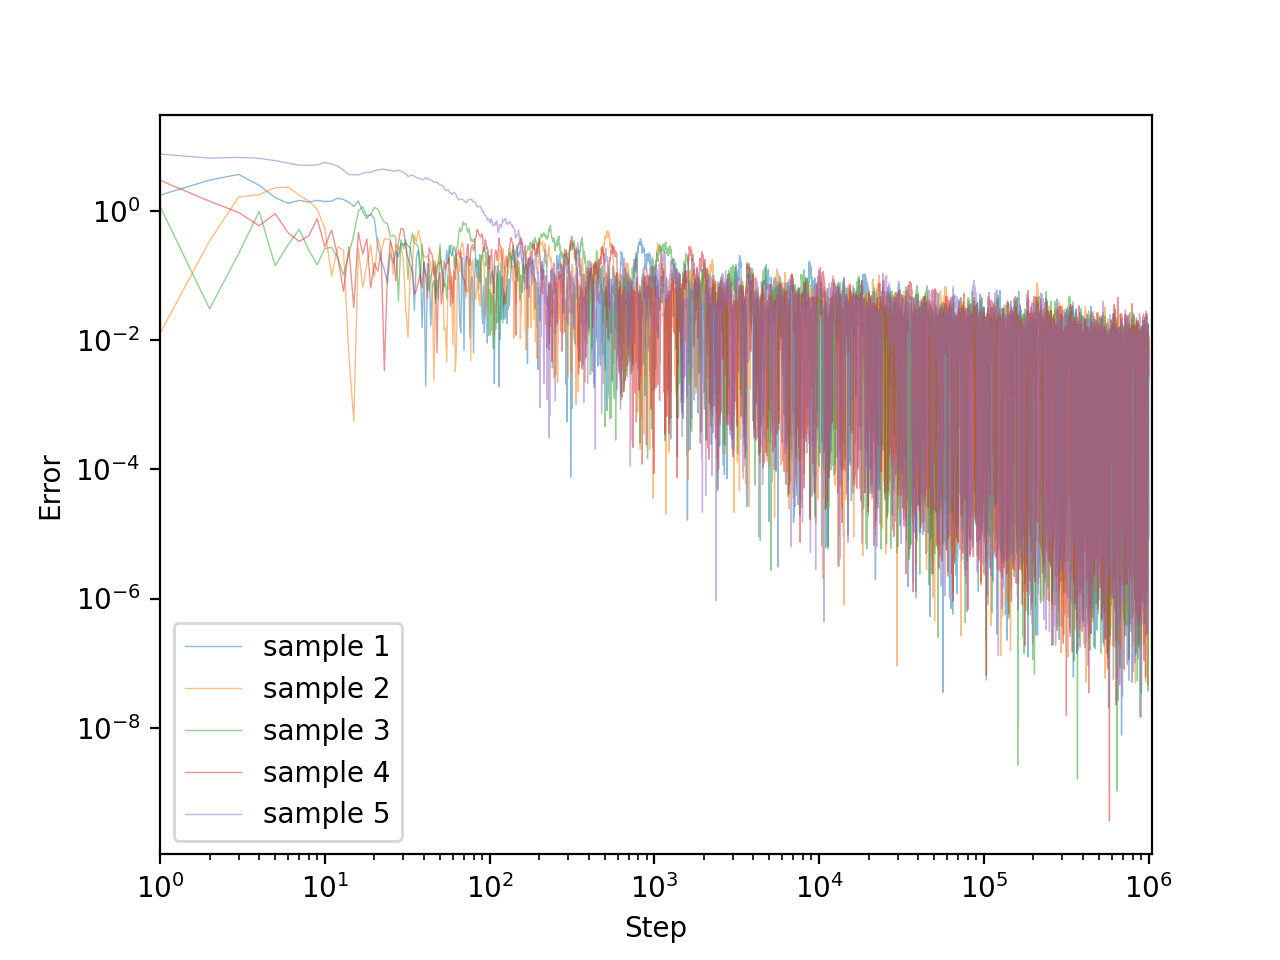
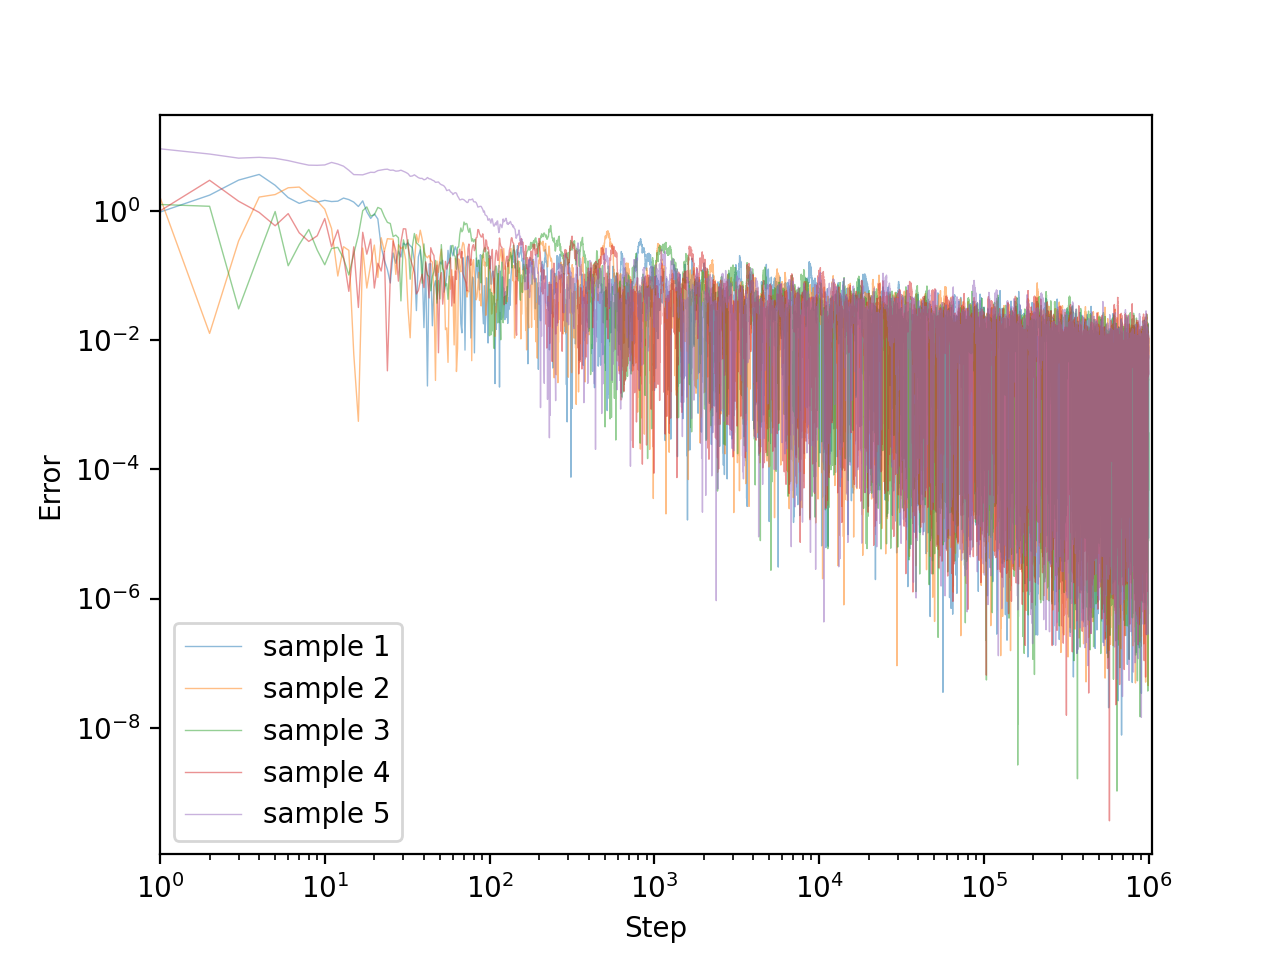
fix off-by-one error

Changed region(s): [[0.125, 0.1562, 0.4688, 0.4375]]

diff --git a/kiefer-wolfowitz/run.py b/kiefer-wolfowitz/run.py
@@ -82,7 +82,7 @@ def main() -> None:
     with output_path.open('w', encoding='utf-8') as file:
         writer = csv.DictWriter(file, fieldnames=['step', 'value', 'error'])
         writer.writeheader()
-        writer.writerows([{'step': i, 'value': x, 'error': np.abs(x - true_solution)}
+        writer.writerows([{'step': i + 1, 'value': x, 'error': np.abs(x - true_solution)}
                           for i, x in enumerate(result)])
 
 

diff --git a/robbins-monro/run.py b/robbins-monro/run.py
@@ -71,7 +71,7 @@ def main() -> None:
     with output_path.open('w', encoding='utf-8') as file:
         writer = csv.DictWriter(file, fieldnames=['step', 'value', 'error'])
         writer.writeheader()
-        writer.writerows([{'step': i, 'value': x, 'error': np.abs(x - true_solution)}
+        writer.writerows([{'step': i + 1, 'value': x, 'error': np.abs(x - true_solution)}
                           for i, x in enumerate(result)])
 
 

diff --git a/kiefer-wolfowitz/README.md b/kiefer-wolfowitz/README.md
@@ -61,12 +61,15 @@ python ../plot.py outputs/0.csv outputs/1.csv outputs/2.csv outputs/3.csv output
     <img src="../resource/5.png" width="50%">
 </div>
 
-### Experiment 2. $a_n=1/n^{1.5}$ and $c_n=1/n^{0.5}$
-One of the assumption $\displaystyle\sum_{n=1}^\infty a_n=\infty$ does not hold.
+All sample paths appear to converge to $\theta$.
+The convergence speed is not so fast though.
+
+### Experiment 2. $a_n=1/n$ and $c_n=0.01$
+One of the assumption $\displaystyle\lim_{n\to\infty}c_n = 0$ does not hold.
 
 ```bash
 for i in {0..4}; do
-    python run.py 1000000 outputs/${i}.csv --step-power-a 1.5 --step-power-c 0.5 --seed ${i}
+    python run.py 1000000 outputs/${i}.csv --step-coef-c 0.01 --step-power-c 0.0 --seed ${i}
 done
 python ../plot.py outputs/0.csv outputs/1.csv outputs/2.csv outputs/3.csv outputs/4.csv \
                   -o ../resource/6.png --alpha 1.0
@@ -75,9 +78,25 @@ python ../plot.py outputs/0.csv outputs/1.csv outputs/2.csv outputs/3.csv output
     <img src="../resource/6.png" width="50%">
 </div>
 
+Some sample paths converged somewhere different from $\theta$.
+
+### Experiment 3. $a_n=1/n^{1.5}$ and $c_n=1/n^{0.5}$
+One of the assumption $\displaystyle\sum_{n=1}^\infty a_n=\infty$ does not hold.
+
+```bash
+for i in {0..4}; do
+    python run.py 1000000 outputs/${i}.csv --step-power-a 1.5 --step-power-c 0.5 --seed ${i}
+done
+python ../plot.py outputs/0.csv outputs/1.csv outputs/2.csv outputs/3.csv outputs/4.csv \
+                  -o ../resource/7.png --alpha 1.0
+```
+<div align="center">
+    <img src="../resource/7.png" width="50%">
+</div>
+
 Some sample paths converged somewhere too early. They could not reach to $\theta$.
 
-### Experiment 3. $a_n=1/n$ and $c_n=1/n^{0.5}$
+### Experiment 4. $a_n=1/n$ and $c_n=1/n^{0.5}$
 One of the assumption $\displaystyle\sum_{n=1}^\infty\frac{a_n^2}{c_n^2}\lt\infty$ does not hold.
 
 ```bash
@@ -85,10 +104,10 @@ for i in {0..4}; do
     python run.py 1000000 outputs/${i}.csv --step-power-c 0.5 --seed ${i}
 done
 python ../plot.py outputs/0.csv outputs/1.csv outputs/2.csv outputs/3.csv outputs/4.csv \
-                  -o ../resource/7.png --alpha 1.0
+                  -o ../resource/8.png --alpha 0.5
 ```
 <div align="center">
-    <img src="../resource/7.png" width="50%">
+    <img src="../resource/8.png" width="50%">
 </div>
 
 Each sample path did not converge. The variance of $x_n$ is very large.
